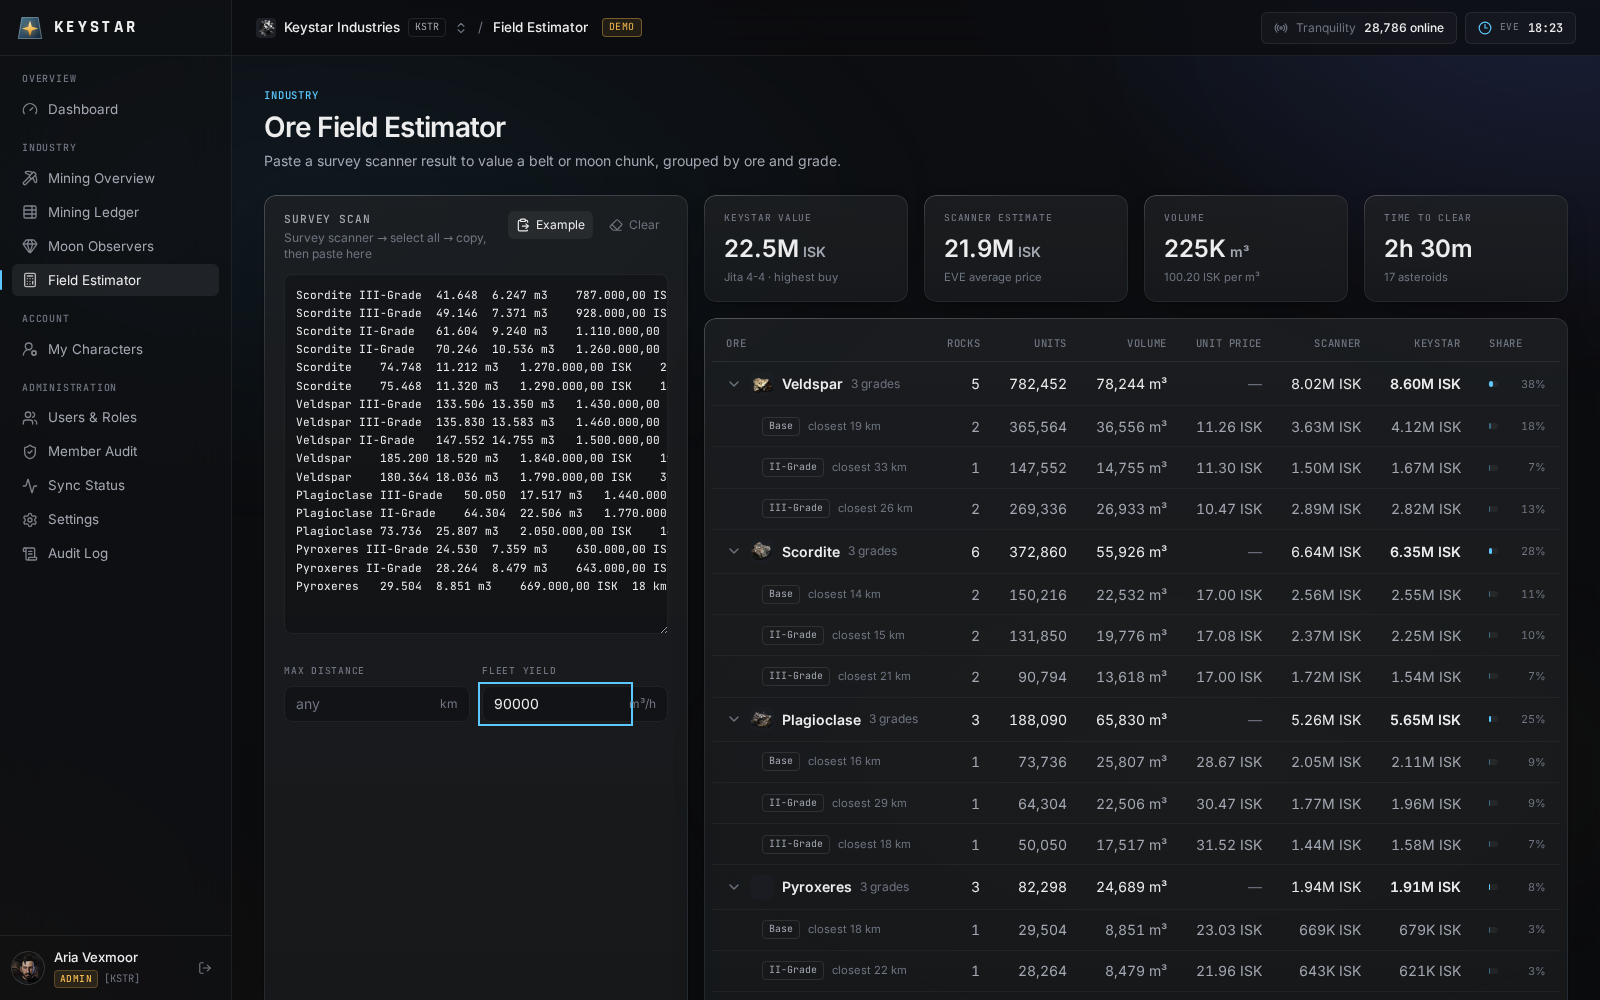
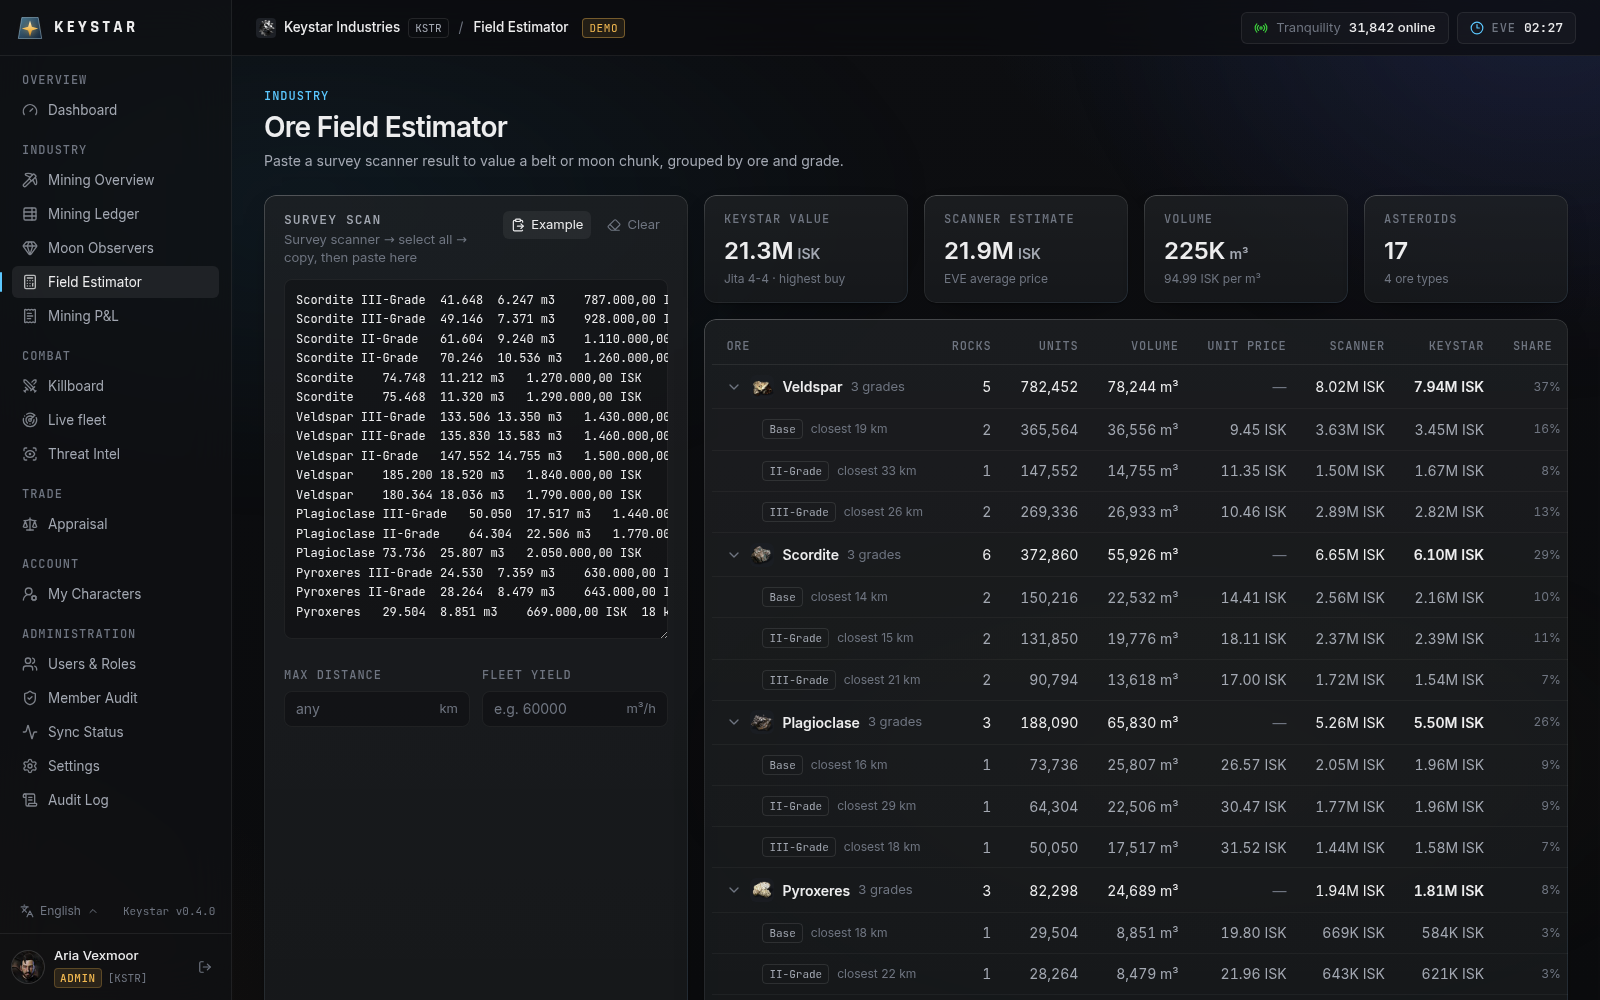
Refresh screenshots and add live fleet, threat intel and mining P&L
Retaken from the demo data at 1600x1000 so the sidebar shows the current
navigation and version.

Claude-Session: https://claude.ai/code/session_01MaYd2con9oEFhjh7sQ93XX

diff --git a/README.md b/README.md
@@ -22,9 +22,15 @@ local, fleets and d-scans, and an **appraisal** tool for Jita prices.
 
 ![Killboard](docs/screenshots/killboard.png)
 
+![Threat intel](docs/screenshots/intel.png)
+
 <table>
   <tr>
     <td><img src="docs/screenshots/overview.png" alt="Dashboard" /></td>
+    <td><img src="docs/screenshots/pnl.png" alt="Mining P&amp;L" /></td>
+  </tr>
+  <tr>
+    <td><img src="docs/screenshots/fleet.png" alt="Live fleet" /></td>
     <td><img src="docs/screenshots/appraisal.png" alt="Appraisal" /></td>
   </tr>
   <tr>
